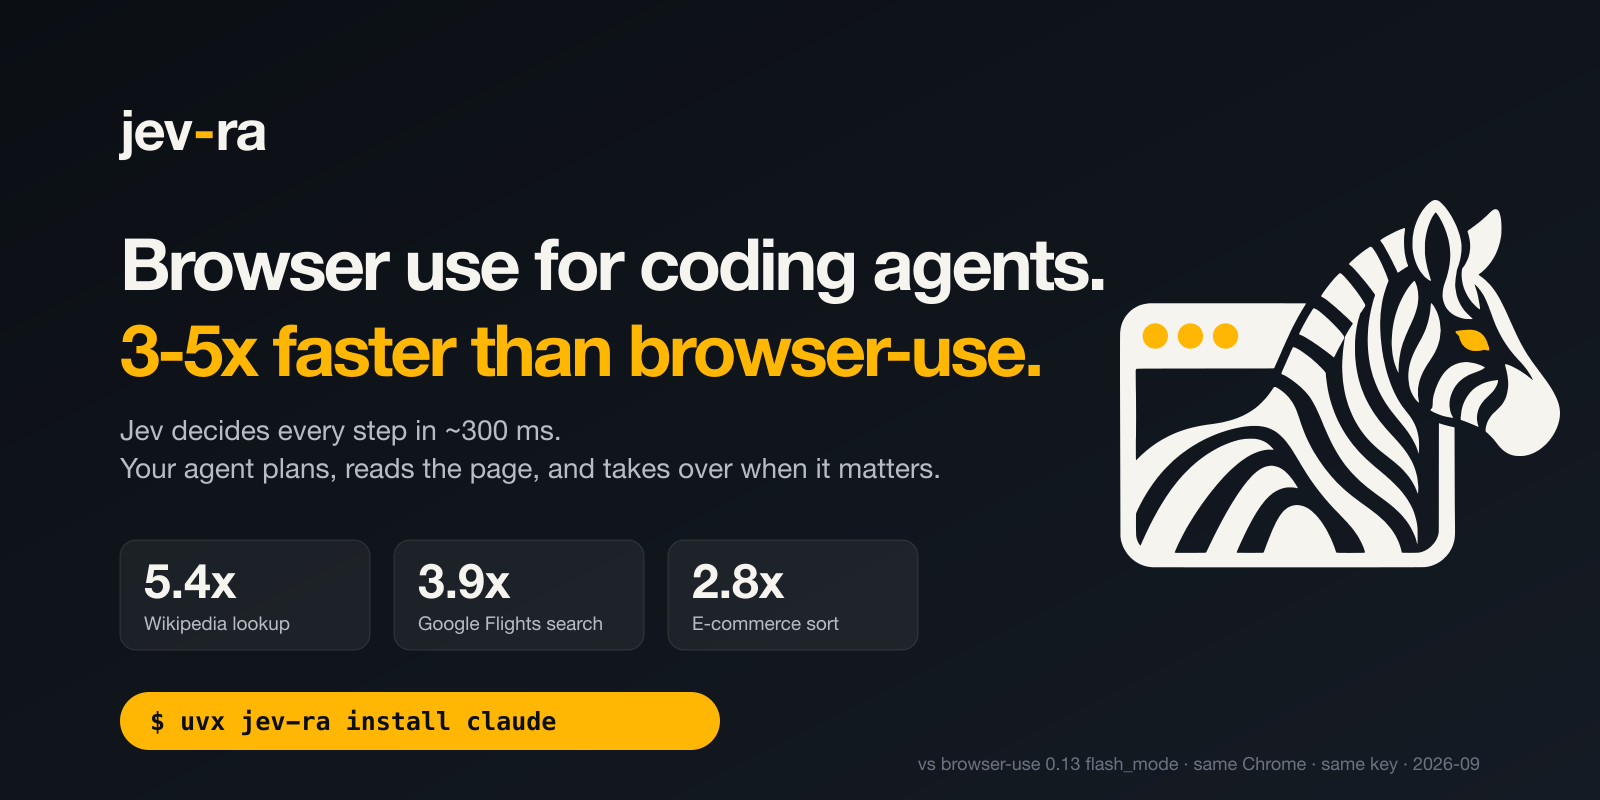
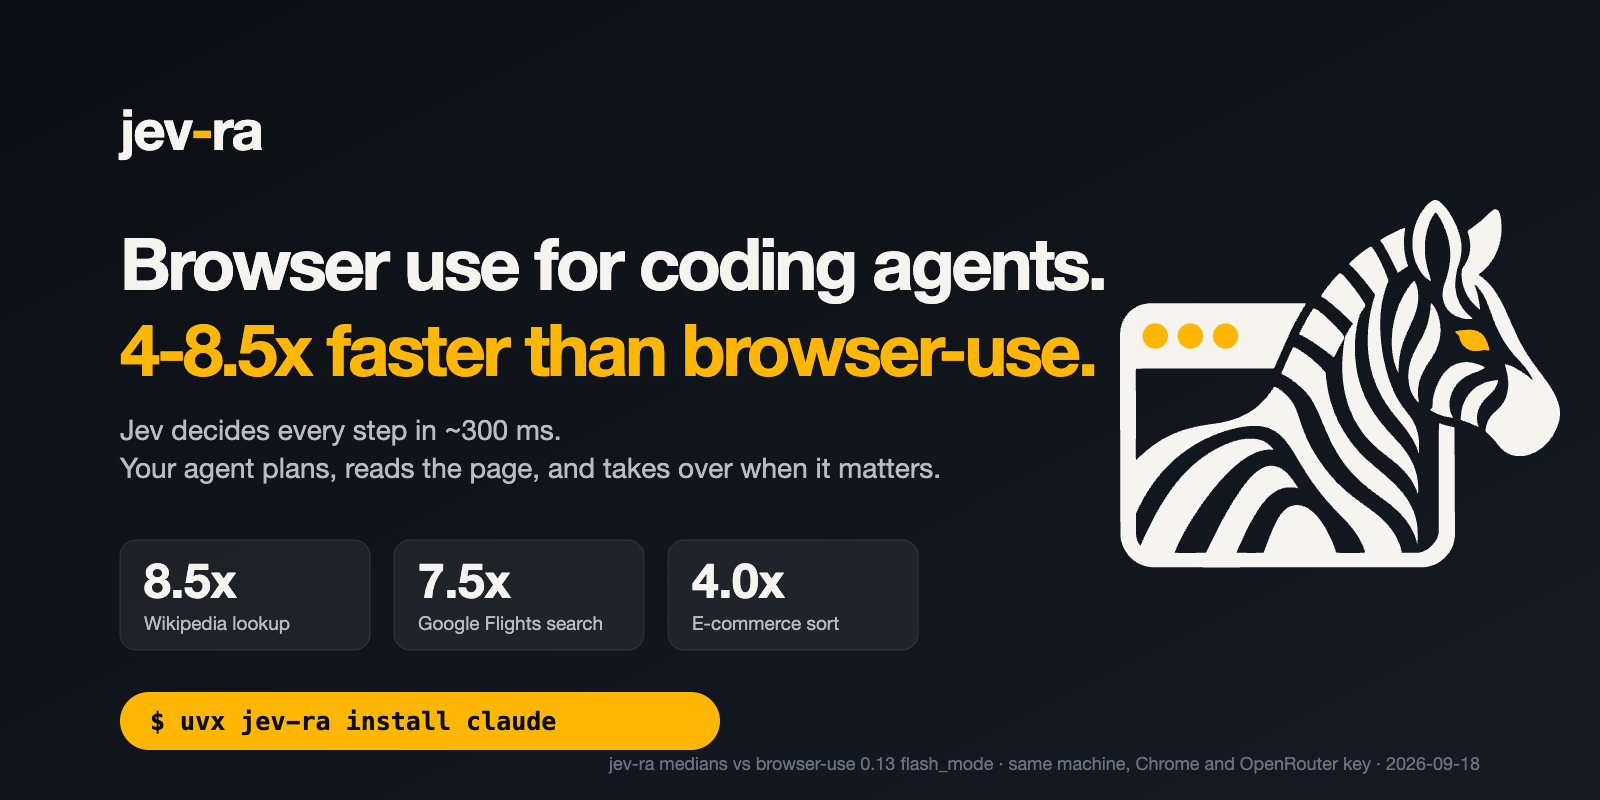
docs: the hero shows jev-ra's measured ratios, not jev-ultrafast's
The tiles read 5.4x / 3.9x / 2.8x, the jev-ultrafast column of the DESIGN.md table. jev-ra's own medians against browser-use's recorded runs on 2026-09-18 are 8.50x / 7.47x / 3.96x, so the hero, the social preview, every README's alt text and the launch drafts now say 4-8.5x with the conditions under the tiles.

diff --git a/assets/source/build_brand.py b/assets/source/build_brand.py
@@ -100,24 +100,24 @@ s3 = 150 / H
     f'<text x="216" y="114" font-family="{FONT}" font-size="100" font-weight="800" letter-spacing="-5" fill="{INK}">jev<tspan fill="{AMBER}">-</tspan>ra</text></svg>\n'
 )
 s4 = 440 / W
-hero = f'''<svg xmlns="http://www.w3.org/2000/svg" viewBox="0 0 1600 800" width="1600" height="800" role="img" aria-label="jev-ra: browser use for coding agents, 3 to 5 times faster than browser-use">
+hero = f'''<svg xmlns="http://www.w3.org/2000/svg" viewBox="0 0 1600 800" width="1600" height="800" role="img" aria-label="jev-ra: browser use for coding agents, 4 to 8.5 times faster than browser-use">
   <defs><linearGradient id="bg" x1="0" y1="0" x2="1" y2="1"><stop offset="0" stop-color="{INK}"/><stop offset="1" stop-color="#151B24"/></linearGradient></defs>
   <rect width="1600" height="800" fill="url(#bg)"/>
   {figure(PAPER, AMBER, s4, 1120, 200)}
   <g font-family="{FONT}" fill="{PAPER}">
     <text x="120" y="150" font-size="56" font-weight="800" letter-spacing="-2">jev<tspan fill="{AMBER}">-</tspan>ra</text>
     <text x="120" y="290" font-size="72" font-weight="800" letter-spacing="-3">Browser use for coding agents.</text>
-    <text x="120" y="376" font-size="72" font-weight="800" letter-spacing="-3" fill="{AMBER}">3-5x faster than browser-use.</text>
+    <text x="120" y="376" font-size="72" font-weight="800" letter-spacing="-3" fill="{AMBER}">4-8.5x faster than browser-use.</text>
     <text x="120" y="440" font-size="28" fill="#B8BCC4">Jev decides every step in ~300 ms.</text>
     <text x="120" y="478" font-size="28" fill="#B8BCC4">Your agent plans, reads the page, and takes over when it matters.</text>
   </g>
   <g font-family="{FONT}">
-    <g transform="translate(120 540)"><rect width="250" height="110" rx="16" fill="{PAPER}" fill-opacity="0.06" stroke="{PAPER}" stroke-opacity="0.12"/><text x="24" y="58" font-size="48" font-weight="800" fill="{PAPER}">5.4x</text><text x="24" y="90" font-size="19" fill="#B8BCC4">Wikipedia lookup</text></g>
-    <g transform="translate(394 540)"><rect width="250" height="110" rx="16" fill="{PAPER}" fill-opacity="0.06" stroke="{PAPER}" stroke-opacity="0.12"/><text x="24" y="58" font-size="48" font-weight="800" fill="{PAPER}">3.9x</text><text x="24" y="90" font-size="19" fill="#B8BCC4">Google Flights search</text></g>
-    <g transform="translate(668 540)"><rect width="250" height="110" rx="16" fill="{PAPER}" fill-opacity="0.06" stroke="{PAPER}" stroke-opacity="0.12"/><text x="24" y="58" font-size="48" font-weight="800" fill="{PAPER}">2.8x</text><text x="24" y="90" font-size="19" fill="#B8BCC4">E-commerce sort</text></g>
+    <g transform="translate(120 540)"><rect width="250" height="110" rx="16" fill="{PAPER}" fill-opacity="0.06" stroke="{PAPER}" stroke-opacity="0.12"/><text x="24" y="58" font-size="48" font-weight="800" fill="{PAPER}">8.5x</text><text x="24" y="90" font-size="19" fill="#B8BCC4">Wikipedia lookup</text></g>
+    <g transform="translate(394 540)"><rect width="250" height="110" rx="16" fill="{PAPER}" fill-opacity="0.06" stroke="{PAPER}" stroke-opacity="0.12"/><text x="24" y="58" font-size="48" font-weight="800" fill="{PAPER}">7.5x</text><text x="24" y="90" font-size="19" fill="#B8BCC4">Google Flights search</text></g>
+    <g transform="translate(668 540)"><rect width="250" height="110" rx="16" fill="{PAPER}" fill-opacity="0.06" stroke="{PAPER}" stroke-opacity="0.12"/><text x="24" y="58" font-size="48" font-weight="800" fill="{PAPER}">4.0x</text><text x="24" y="90" font-size="19" fill="#B8BCC4">E-commerce sort</text></g>
   </g>
   <g transform="translate(120 692)" font-family="{MONO}"><rect width="600" height="58" rx="29" fill="{AMBER}"/><text x="30" y="38" font-size="25" font-weight="700" fill="{INK}">$ uvx jev-ra install claude</text></g>
-  <text x="1480" y="770" text-anchor="end" font-family="{FONT}" font-size="18" fill="#6B7280">vs browser-use 0.13 flash_mode · same Chrome · same key · 2026-09</text>
+  <text x="1480" y="770" text-anchor="end" font-family="{FONT}" font-size="18" fill="#6B7280">jev-ra medians vs browser-use 0.13 flash_mode · same machine, Chrome and OpenRouter key · 2026-09-18</text>
 </svg>
 '''
 (out / "hero.svg").write_text(hero)

diff --git a/docs/launch/show-hn.md b/docs/launch/show-hn.md
@@ -1,6 +1,6 @@
 # Show HN draft
 
-**Title:** Show HN: jev-ra – browser use for coding agents, 3-5x faster than browser-use
+**Title:** Show HN: jev-ra – browser use for coding agents, 4-8.5x faster than browser-use
 
 **Body:**
 
@@ -12,7 +12,7 @@ Numbers, same Chrome, same key, medians of 5 runs each (2026-09-18), against bro
 - Wikipedia lookup: 2.7 s vs 23.1 s (8.5x)
 - Google Flights one-way search, verified against the results page: 8.9 s vs 66.4 s (7.5x)
 - E-commerce sort: 3.8 s vs 15.1 s (4.0x)
-Our median against browser-use's fastest single run is still 5.8x / 5.6x / 4.6x, so the title says 3-5x. Raw rows and the method are in docs/BENCHMARKS.md, and a 40-task real-site corpus is published there too: 85% pass on the second measurement, the rest are escalations with a reason.
+Against browser-use 0.13 flash_mode's recorded runs, our medians over 5 verified runs are 8.5x / 7.5x / 4.0x faster (same machine, same Chrome, same OpenRouter key, 2026-09-18). Raw rows and the method are in docs/BENCHMARKS.md, and an 83-task real-site corpus is published there too: 213 of 249 runs passed on 0.2.4.
 
 It is an MCP server + CLI. `uvx jev-ra install claude` or `npx -y jev-ra install codex`. Works with an OpenRouter key; no TypeSafe account needed.
 

diff --git a/npm/README.md b/npm/README.md
@@ -12,7 +12,7 @@
   <a href="https://github.com/brnyxx/jev-ra/blob/main/LICENSE"><img alt="License" src="https://img.shields.io/badge/license-MIT-green"></a>
 </p>
 
-[![jev-ra: browser use for coding agents, 3-5x faster than browser-use](https://raw.githubusercontent.com/brnyxx/jev-ra/main/assets/hero.png)](https://brnyxx.github.io/jev-ra/)
+[![jev-ra: browser use for coding agents, 4-8.5x faster than browser-use](https://raw.githubusercontent.com/brnyxx/jev-ra/main/assets/hero.png)](https://brnyxx.github.io/jev-ra/)
 
 <p align="center"><a href="https://brnyxx.github.io/jev-ra/">brnyxx.github.io/jev-ra</a> · <a href="https://github.com/brnyxx/jev-ra">GitHub</a> · <a href="https://github.com/brnyxx/jev-ra/blob/main/docs/USAGE.md">CLI and tool reference</a> · <a href="https://github.com/brnyxx/jev-ra/blob/main/docs/BENCHMARKS.md">Benchmarks</a></p>
 

diff --git a/README.md b/README.md
@@ -12,7 +12,7 @@
   <a href="https://m8ven.ai/mcp/brnyxx/jev-ra"><img alt="M8ven Score" src="https://m8ven.ai/badge/mcp/brnyxx/jev-ra"></a>
 </p>
 
-[![jev-ra: browser use for coding agents, 3-5× faster than browser-use](https://raw.githubusercontent.com/brnyxx/jev-ra/main/assets/hero.png)](https://github.com/brnyxx/jev-ra/blob/main/docs/BENCHMARKS.md)
+[![jev-ra: browser use for coding agents, 4-8.5× faster than browser-use](https://raw.githubusercontent.com/brnyxx/jev-ra/main/assets/hero.png)](https://github.com/brnyxx/jev-ra/blob/main/docs/BENCHMARKS.md)
 
 **English** · [한국어](https://github.com/brnyxx/jev-ra/blob/main/docs/i18n/README.ko.md) · [日本語](https://github.com/brnyxx/jev-ra/blob/main/docs/i18n/README.ja.md) · [简体中文](https://github.com/brnyxx/jev-ra/blob/main/docs/i18n/README.zh-CN.md)
 

diff --git a/docs/launch/x-thread.md b/docs/launch/x-thread.md
@@ -1,6 +1,6 @@
 # X thread draft
 
-1/ Coding agents drive browsers slowly because every click is an LLM call. jev-ra moves that decision to a 300 ms model. 3-5x faster than browser-use on the same tasks, same Chrome, same key.
+1/ Coding agents drive browsers slowly because every click is an LLM call. jev-ra moves that decision to a 300 ms model. 4-8.5x faster than browser-use on three recorded tasks, same Chrome, same key.
 
 2/ How: TypeSafe Jev answers typed questions for each step - which element, did the last action work, is the goal done - in about 300 ms. Your Claude Code or Codex plans, supplies the text to type, reads the page, and gets control back when jev-ra cannot continue. No second LLM.
 

diff --git a/docs/i18n/README.ja.md b/docs/i18n/README.ja.md
@@ -11,7 +11,7 @@
   <a href="../../LICENSE"><img alt="License" src="https://img.shields.io/badge/license-MIT-green"></a>
 </p>
 
-[![jev-ra: コーディングエージェントのためのブラウザ操作、browser-use より 3-5× 速い](../../assets/hero.png)](../BENCHMARKS.md)
+[![jev-ra: コーディングエージェントのためのブラウザ操作、browser-use より 4-8.5× 速い](../../assets/hero.png)](../BENCHMARKS.md)
 
 [English](../../README.md) · [한국어](README.ko.md) · **日本語** · [简体中文](README.zh-CN.md)
 

diff --git a/docs/i18n/README.ko.md b/docs/i18n/README.ko.md
@@ -11,7 +11,7 @@
   <a href="../../LICENSE"><img alt="License" src="https://img.shields.io/badge/license-MIT-green"></a>
 </p>
 
-[![jev-ra: 코딩 에이전트를 위한 브라우저 조작, browser-use보다 3-5× 빠르다](../../assets/hero.png)](../BENCHMARKS.md)
+[![jev-ra: 코딩 에이전트를 위한 브라우저 조작, browser-use보다 4-8.5× 빠르다](../../assets/hero.png)](../BENCHMARKS.md)
 
 [English](../../README.md) · **한국어** · [日本語](README.ja.md) · [简体中文](README.zh-CN.md)
 

diff --git a/docs/i18n/README.zh-CN.md b/docs/i18n/README.zh-CN.md
@@ -11,7 +11,7 @@
   <a href="../../LICENSE"><img alt="License" src="https://img.shields.io/badge/license-MIT-green"></a>
 </p>
 
-[![jev-ra：面向编码智能体的浏览器操作，比 browser-use 快 3-5×](../../assets/hero.png)](../BENCHMARKS.md)
+[![jev-ra：面向编码智能体的浏览器操作，比 browser-use 快 4-8.5×](../../assets/hero.png)](../BENCHMARKS.md)
 
 [English](../../README.md) · [한국어](README.ko.md) · [日本語](README.ja.md) · **简体中文**
 
